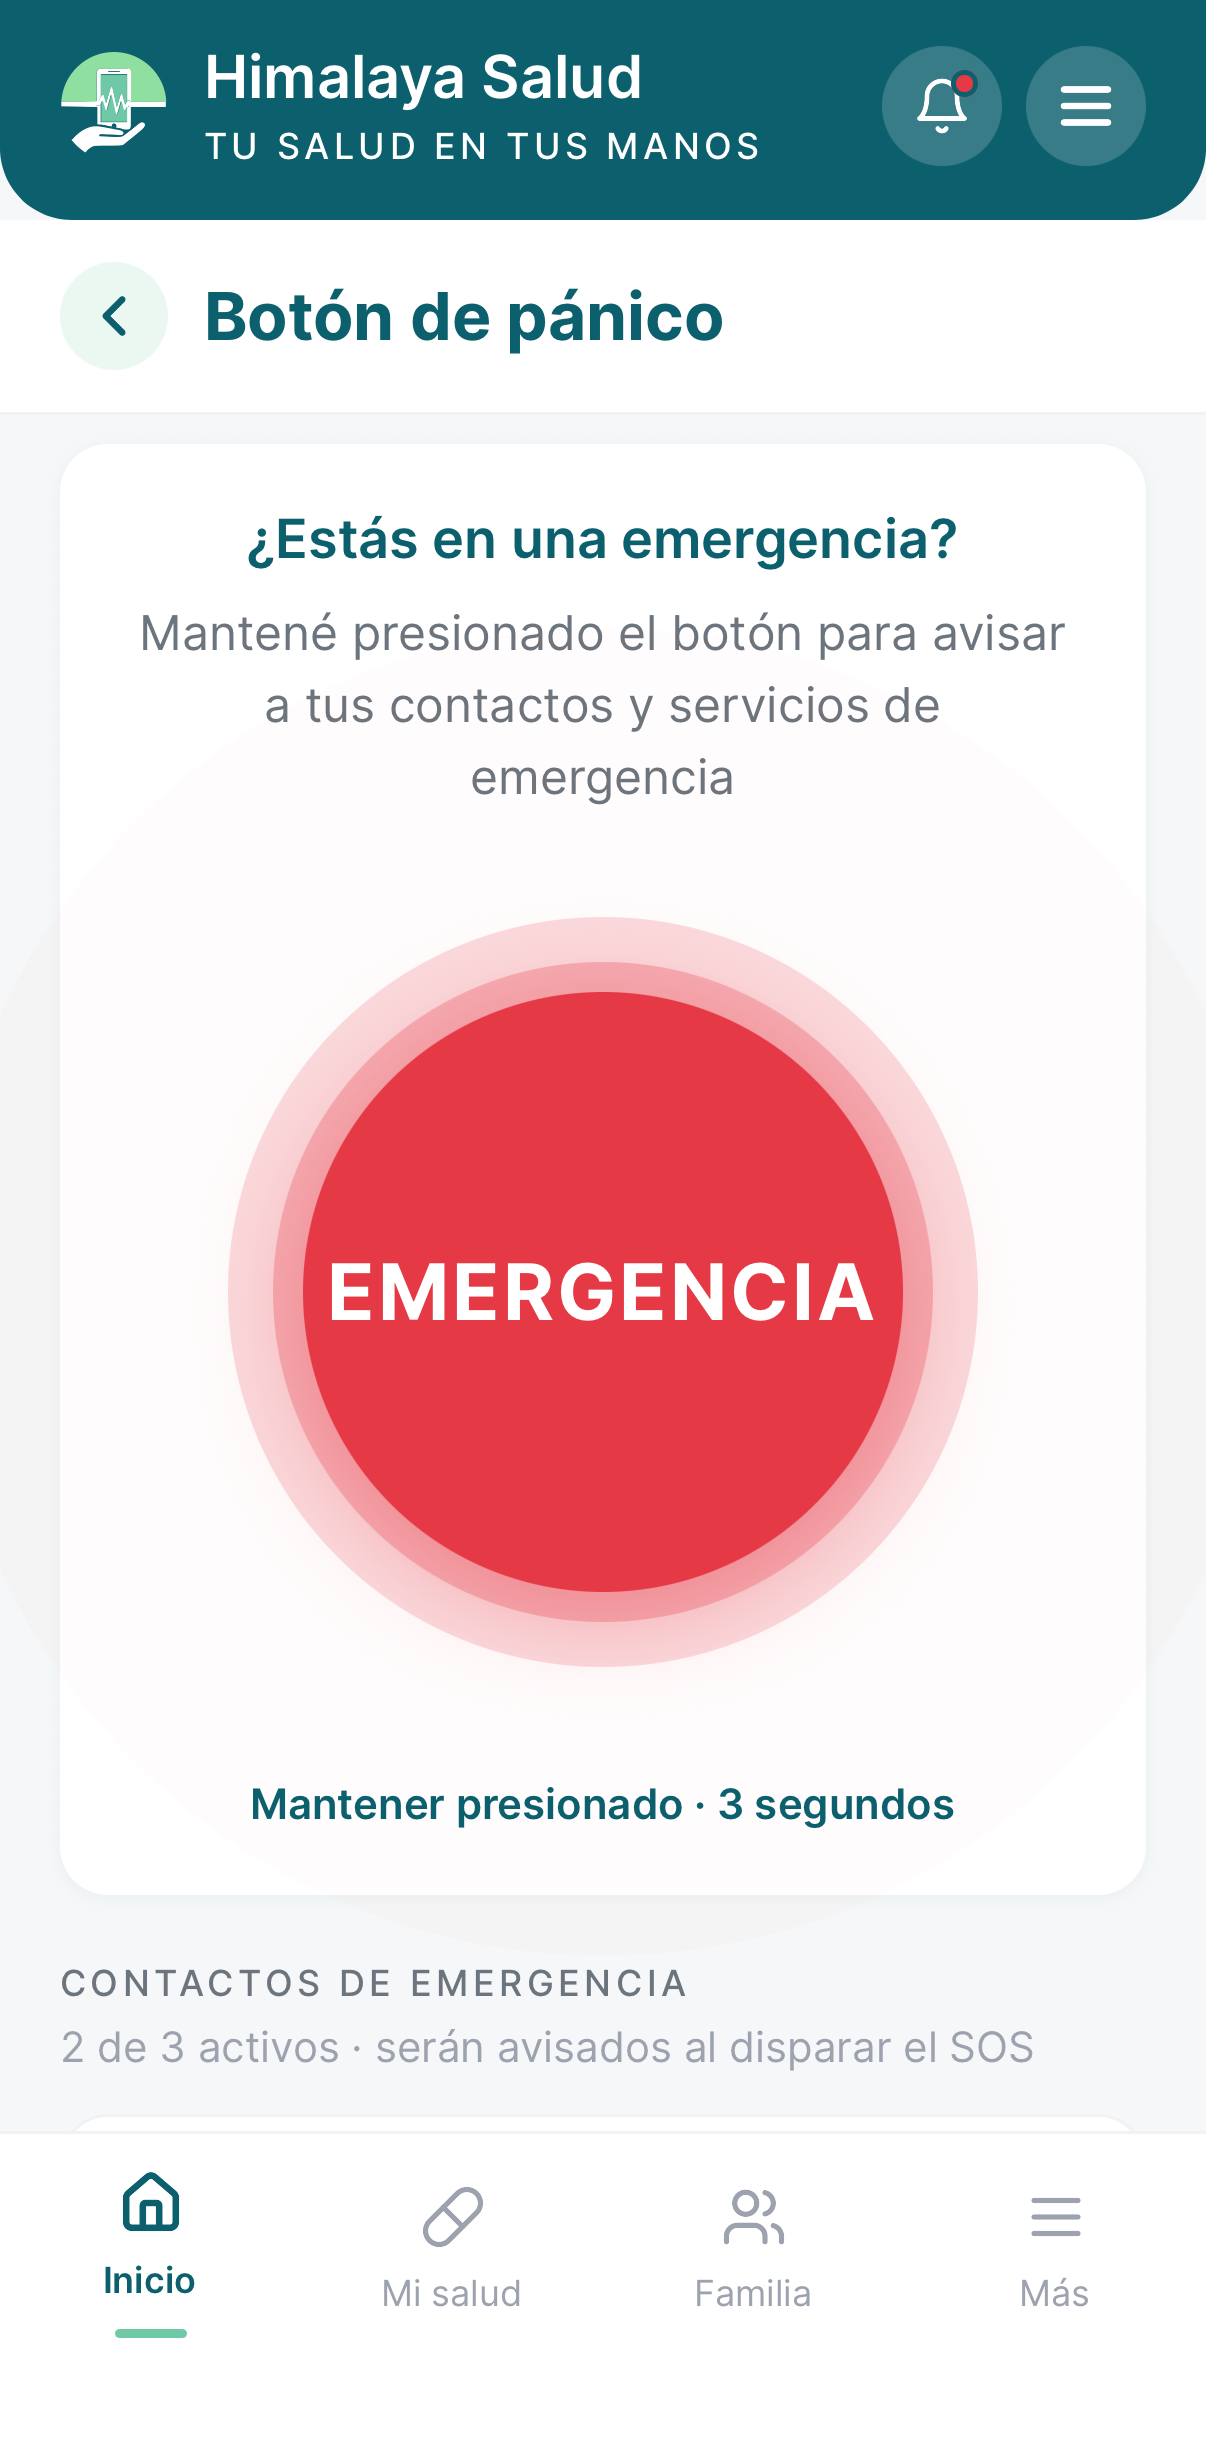
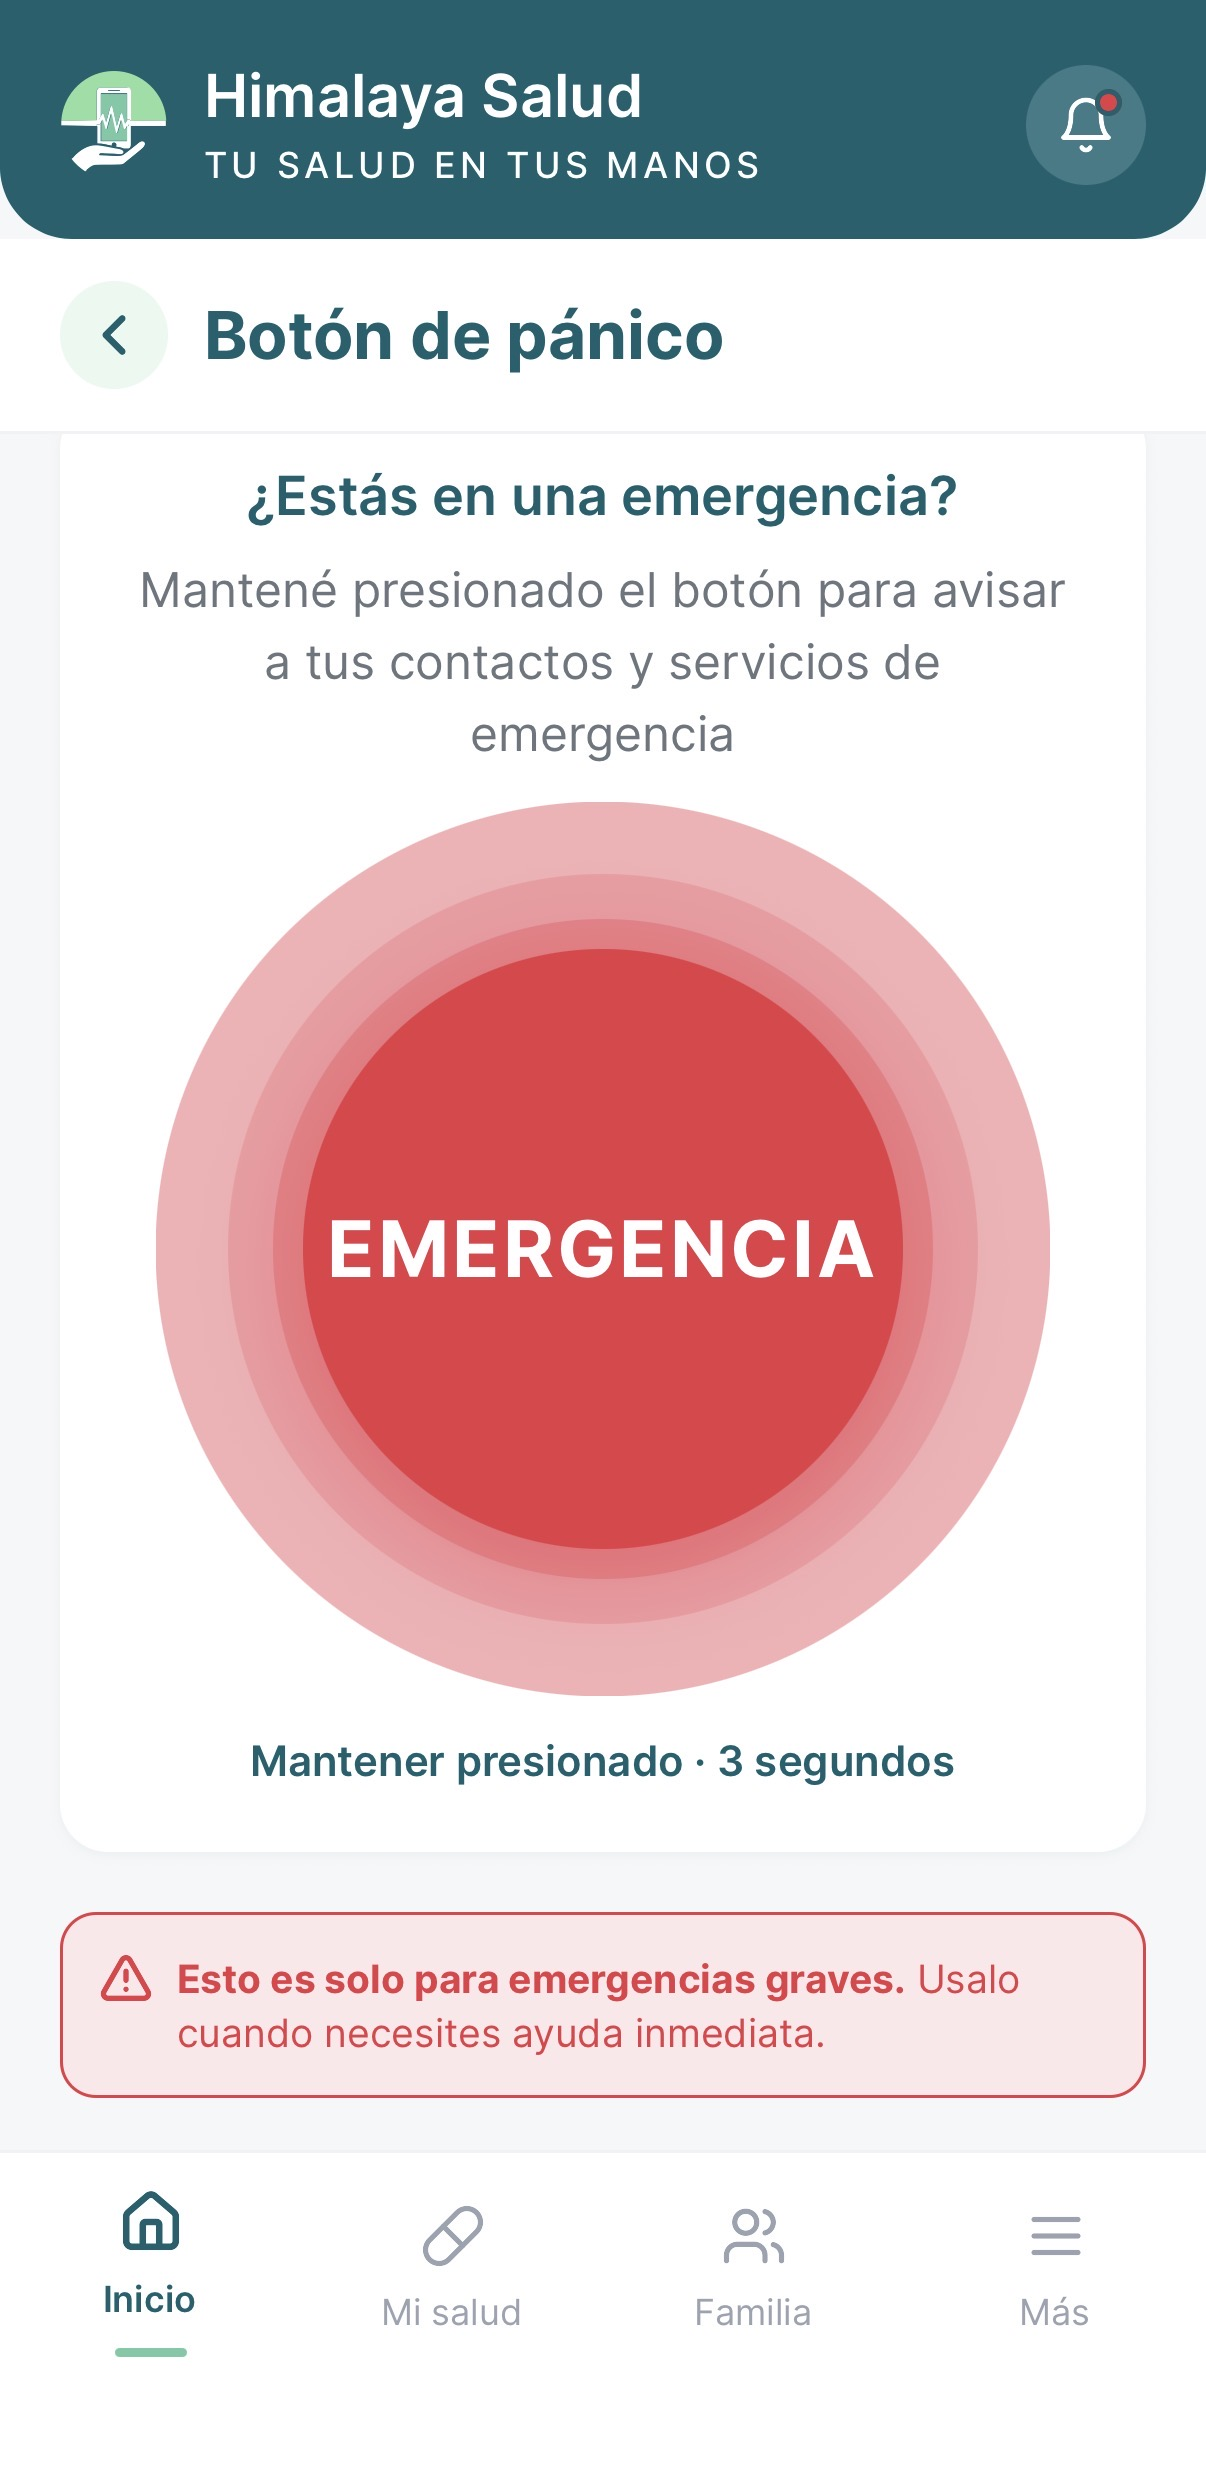
feat: copy y screenshots nuevos enfocados en EMERGENCIA
- Hero: "activación SOS" → "EMERGENCIA"; badge "SOS · 3 SEG" → "EMERGENCIA · 3 SEG"
- Producto: eyebrow más grande (size lg), título "Una app, todo lo que necesitás
  en una EMERGENCIA" + subtítulo con foco en herramienta para emergencia
- Tab Botón de emergencia: desc en mayúsculas con EMERGENCIA destacada;
  feature ahora menciona Portal del Paciente y Mis Mediciones
- Cuando cada segundo cuenta: eyebrow vuelve a "Botón de pánico"; párrafo
  y step 4 reescritos para hablar de Portal del Paciente + Mis Mediciones
- Info médica: título nuevo + chips reducidos a Portal Paciente y Mis Mediciones
- Screenshots: hero-inicio.jpg (IMG_4079, dashboard con EMERGENCIA), y
  showcase-sos.png/sos-panico.png (IMG_4078, círculo rojo EMERGENCIA)

diff --git a/src/app/page.tsx b/src/app/page.tsx
@@ -47,10 +47,10 @@ const productosTabs: ProductoTab[] = [
     icon: ShieldAlert,
     tab: "Botón de emergencia",
     title: "Pedí ayuda con un solo toque",
-    desc: "Una emergencia no avisa. Mantené presionado 3 segundos y tu celular actúa por vos.",
+    desc: "Una EMERGENCIA no avisa, mejor estar preparados. MANTENÉ PRESIONADO 3 SEGUNDOS Y TU CELULAR ACTÚA POR VOS.",
     features: [
       "Avisa a tus 3 contactos de confianza con tu ubicación GPS exacta",
-      "Comparte tu info médica por WhatsApp al instante",
+      "Compartí tu info de tu Portal del Paciente y Mis Mediciones por WhatsApp al instante",
       "Funciona aunque tengas la app cerrada",
       "Pensado para vos y para toda tu familia",
     ],
@@ -130,19 +130,12 @@ const sosSteps = [
   },
   {
     n: "4",
-    title: "Comparte tus datos de salud",
-    desc: "Grupo sanguíneo, alergias, medicación y antecedentes.",
+    title: "Comparte tus datos de tu Portal del Paciente y Mis Mediciones",
+    desc: "Toda tu info clínica, compartida al instante.",
   },
 ];
 
-const infoMedicaChips = [
-  "Grupo sanguíneo",
-  "Alergias",
-  "Medicación",
-  "Antecedentes",
-  "Donante de órganos",
-  "Obra social",
-];
+const infoMedicaChips = ["Portal Paciente", "Mis Mediciones"];
 
 const planIncluye = [
   "Botón de emergencia — 4 activaciones por mes",
@@ -168,13 +161,30 @@ const eyebrowStyle: React.CSSProperties = {
   color: C.teal700,
 };
 
-function Eyebrow({ children, color }: { children: React.ReactNode; color?: string }) {
+function Eyebrow({
+  children,
+  color,
+  size = "sm",
+}: {
+  children: React.ReactNode;
+  color?: string;
+  size?: "sm" | "lg";
+}) {
+  const isLg = size === "lg";
   return (
-    <span style={{ ...eyebrowStyle, color: color ?? C.teal700 }}>
+    <span
+      style={{
+        ...eyebrowStyle,
+        color: color ?? C.teal700,
+        fontSize: isLg ? 14 : 11,
+        letterSpacing: isLg ? "2.2px" : "1.8px",
+        gap: isLg ? 12 : 10,
+      }}
+    >
       <span
         style={{
-          width: 18,
-          height: 2,
+          width: isLg ? 22 : 18,
+          height: isLg ? 3 : 2,
           borderRadius: 2,
           backgroundColor: color ?? C.mint500,
         }}
@@ -328,7 +338,7 @@ export default function Home() {
                   </strong>
                   <div className="text-xs" style={{ color: C.textCaption }}>
                     <div style={{ fontWeight: 600, color: C.textBody }}>
-                      activación SOS
+                      EMERGENCIA
                     </div>
                     <div>avisa a tus contactos</div>
                   </div>
@@ -414,7 +424,7 @@ export default function Home() {
                       color: C.danger,
                     }}
                   >
-                    SOS · 3 SEG
+                    EMERGENCIA · 3 SEG
                   </div>
                   <div
                     style={{
@@ -518,7 +528,7 @@ export default function Home() {
       <section id="producto" className="py-16 md:py-24">
         <div className="container mx-auto px-4">
           <div className="stagger mb-12 max-w-2xl">
-            <Eyebrow>Producto</Eyebrow>
+            <Eyebrow size="lg">Producto</Eyebrow>
             <h2
               className="mt-4 text-3xl font-extrabold sm:text-4xl"
               style={{
@@ -527,15 +537,22 @@ export default function Home() {
                 lineHeight: 1.1,
               }}
             >
-              Una app, todo lo que necesitás{" "}
-              <span style={{ color: C.mint700 }}>para tu salud</span>.
+              Una app, todo lo que necesitás en una{" "}
+              <strong style={{ color: C.danger, fontWeight: 900 }}>
+                EMERGENCIA
+              </strong>
+              .
             </h2>
             <p
               className="mt-4 text-lg"
               style={{ color: C.textCaption, lineHeight: 1.55 }}
             >
-              Pensada para que vos y tu familia tengan la información médica
-              importante a un toque.
+              Pensada para que vos y tu familia dispongan de una herramienta
+              sencilla y eficaz en una{" "}
+              <strong style={{ color: C.danger, fontWeight: 800 }}>
+                EMERGENCIA
+              </strong>
+              .
             </p>
           </div>
           {/* Tabs */}
@@ -722,7 +739,7 @@ export default function Home() {
         <div className="container mx-auto px-4">
           <div className="grid items-center gap-10 md:gap-12 lg:grid-cols-2">
             <div className="stagger">
-              <Eyebrow color={C.danger}>Botón de emergencia</Eyebrow>
+              <Eyebrow color={C.danger}>Botón de pánico</Eyebrow>
               <h2
                 className="mt-4 text-3xl font-extrabold sm:text-4xl"
                 style={{
@@ -739,8 +756,10 @@ export default function Home() {
               >
                 Mantené presionado{" "}
                 <strong style={{ color: C.textBody }}>3 segundos</strong> y
-                avisamos a tus contactos de confianza con tu ubicación,
-                condiciones médicas y la información relevante.
+                avisamos a tus contactos de confianza con tu ubicación, y envía
+                la info de tu{" "}
+                <strong style={{ color: C.textBody }}>Portal del Paciente</strong>{" "}
+                y <strong style={{ color: C.textBody }}>Mis Mediciones</strong>.
               </p>
               <p
                 className="mt-8 text-xs font-bold uppercase"
@@ -888,8 +907,9 @@ export default function Home() {
                 lineHeight: 1.1,
               }}
             >
-              Tu info médica, lista para cuando{" "}
-              <span style={{ color: C.verdeClaro }}>no podés hablar</span>.
+              Tu info de tu Portal del Paciente y Mis Mediciones, lista para
+              cuando <span style={{ color: C.verdeClaro }}>no podés hablar</span>
+              .
             </h2>
             <p
               className="mx-auto mt-4 max-w-xl text-base"